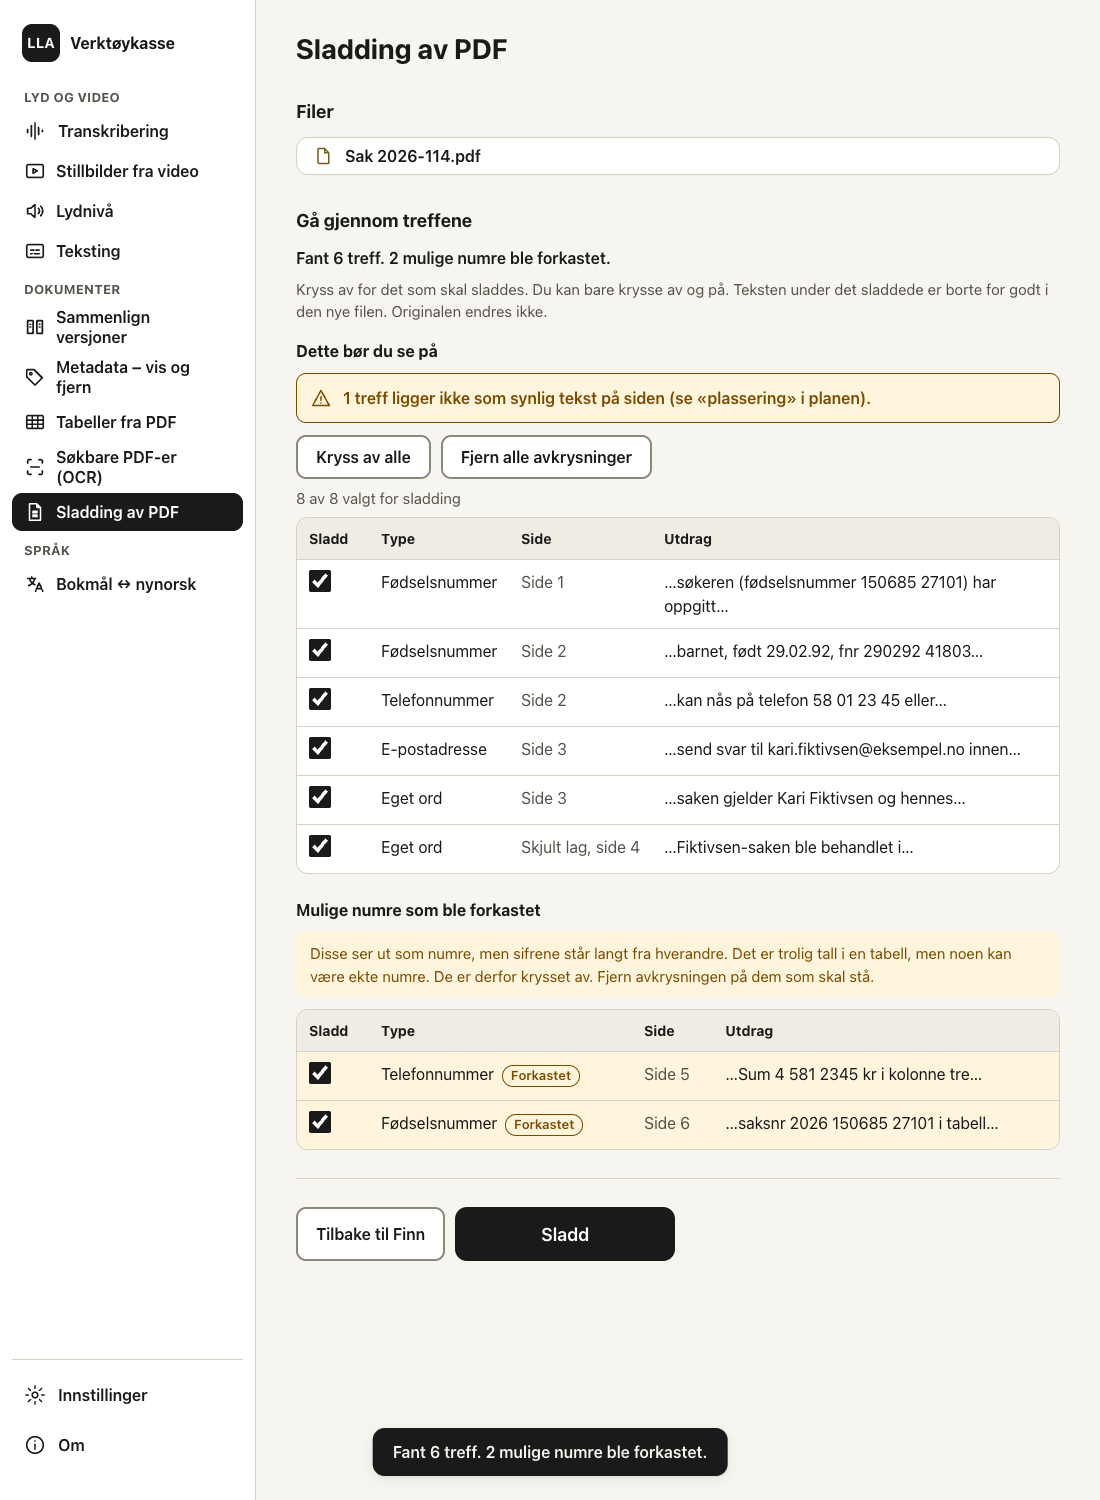
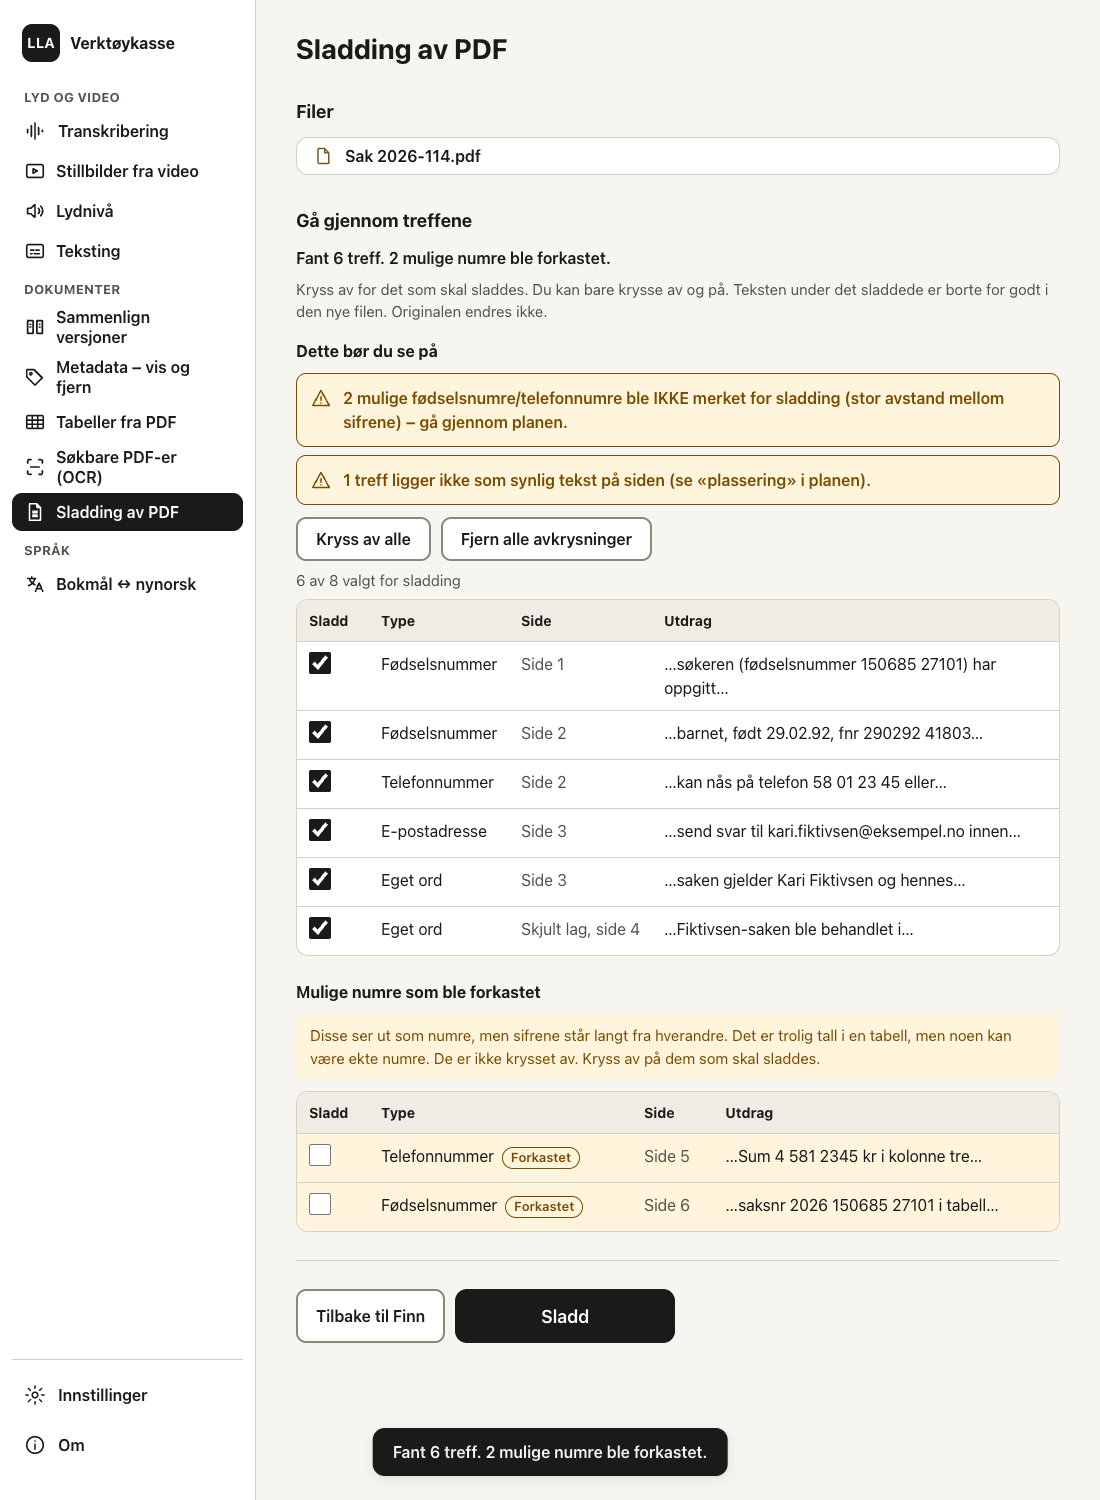
Steg 6.3: forkastede treff uten hake som standard, strammere plan.rs
Claude-Session: https://claude.ai/code/session_014CGeFFCHcrkideQnxsg8jH

Changed region(s): [[0.2473, 0.2453, 0.9891, 0.92]]

diff --git a/src/tools/jv/controller.test.ts b/src/tools/jv/controller.test.ts
@@ -12,7 +12,7 @@ import type { InstalledView, PlanItem } from "./api";
 import { JvController } from "./controller";
 import { catalogOf, entry, FakeJvBackend, fakePlatform, toolView } from "./fakes";
 import { screenMode } from "./view-screen";
-import { hideRejectedWarning, itemType, itemWhere } from "./view-redact";
+import { itemType, itemWhere } from "./view-redact";
 import { visibleWarnings } from "./view-result";
 import { jvErrorText } from "./errors";
 import { t } from "../../i18n/nb";
@@ -420,16 +420,16 @@ describe("sladding i to steg", () => {
     expect(s.redact.items.map((i) => i.id)).toEqual(["t1", "t2", "t3"]);
   });
 
-  it("forkastede kandidater står avkrysset, merket og i egen gruppe", async () => {
+  it("forkastede kandidater står uten hake som standard, merket og i egen gruppe", async () => {
     const { c } = await toReview();
     const items = c.session("redact" as never).redact.items;
     const rejected = items.filter((i) => i.rejected);
     expect(rejected.map((i) => i.id)).toEqual(["t3"]);
-    expect(rejected.every((i) => i.redact)).toBe(true);
+    expect(rejected.every((i) => !i.redact)).toBe(true);
     expect(t.jv.redact.rejectedHint).toContain("kan være ekte numre");
-    // Advarselen som sier det motsatte av avkrysningen, skjules; de andre vises.
+    // Alle advarslene vises, også at forkastede treff ikke er merket.
     const report = c.session("redact" as never).redact.findReport;
-    expect(visibleWarnings(report, hideRejectedWarning)).toEqual(["1 treff ligger ikke som synlig tekst på siden."]);
+    expect(visibleWarnings(report)).toEqual(report!.warnings);
   });
 
   it("brukeren kan bare krysse av og på: «Sladd» lagrer bare id og av/på, og kjører sladd med planen", async () => {
@@ -442,6 +442,14 @@ describe("sladding i to steg", () => {
     expect(JSON.stringify(backend.savedPlans)).not.toMatch(/fødselsnummer|utdrag|excerpt|rektangler|side/);
     expect(backend.callsOf("run")[1]).toEqual(["redact", { command: "sladd", inputs: ["/s/sak.pdf"], out_dir: "/s", options: { plan_file: "/s/sak-treff.json" } }]);
     expect(c.session("redact" as never).run.status).toBe("running");
+  });
+
+  it("lagringen endrer bare sladd: forkastede er false til brukeren krysser dem av", async () => {
+    const { c, backend } = await toReview();
+    expect(c.planEdits("redact" as never)).toEqual({ t1: true, t2: true, t3: false });
+    c.setRedact("redact" as never, "t3", true);
+    await c.redact("redact" as never);
+    expect(backend.savedPlans).toEqual([{ path: "/s/sak-treff.json", redact: { t1: true, t2: true, t3: true } }]);
   });
 
   it("endrer ingenting annet enn avkrysningen i treffene", async () => {

diff --git a/src/tools/jv/view-redact.ts b/src/tools/jv/view-redact.ts
@@ -21,11 +21,6 @@ export function itemType(i: PlanItem): string {
   return X.types[i.type] ?? i.type;
 }
 
-/** Advarselen fra verktøyet om forkastede treff forklares av gruppen under, og sier det motsatte av avkrysningen. */
-export function hideRejectedWarning(w: string): boolean {
-  return /IKKE merket for sladding/.test(w);
-}
-
 export interface RedactView {
   el: HTMLElement;
   update(): void;
@@ -91,7 +86,7 @@ export function createRedactReview(c: JvController, id: JvToolId): RedactView {
     boxes.clear();
     const regular = r.items.filter((i) => !i.rejected);
     const rejected = r.items.filter((i) => i.rejected);
-    const warnings = warningsBlock(visibleWarnings(r.findReport, hideRejectedWarning));
+    const warnings = warningsBlock(visibleWarnings(r.findReport));
     const summary = findSummary(r.items);
     const parts: (HTMLElement | null)[] = [
       h("p", { class: "review-summary", text: summary }),

diff --git a/src/tools/jv/controller.ts b/src/tools/jv/controller.ts
@@ -639,9 +639,8 @@ export class JvController {
     try {
       if (!planPath) throw { code: "report_invalid" };
       const view = await this.backend.readPlan(planPath);
-      // Forkastede kandidater er avkrysset: det er tryggere at brukeren
-      // fjerner en avkrysning enn at et ekte nummer blir stående.
-      const items = view.items.map((i) => (i.rejected ? { ...i, redact: true } : { ...i }));
+      // Avkrysningen følger `sladd` i planen: forkastede kandidater har ingen hake.
+      const items = view.items.map((i) => ({ ...i }));
       s.redact = { step: "review", planPath, items, findReport: report, loading: false, error: null };
       run.status = "done";
       run.progress = 1;

diff --git a/src/i18n/nb.ts b/src/i18n/nb.ts
@@ -792,7 +792,7 @@ const nb = {
       } as Record<string, string>,
       rejectedTitle: "Mulige numre som ble forkastet",
       rejectedHint:
-        "Disse ser ut som numre, men sifrene står langt fra hverandre. Det er trolig tall i en tabell, men noen kan være ekte numre. De er derfor krysset av. Fjern avkrysningen på dem som skal stå.",
+        "Disse ser ut som numre, men sifrene står langt fra hverandre. Det er trolig tall i en tabell, men noen kan være ekte numre. De er ikke krysset av. Kryss av på dem som skal sladdes.",
       rejectedBadge: "Forkastet",
       selected: (n: number, total: number) => `${n} av ${total} valgt for sladding`,
       selectAll: "Kryss av alle",

diff --git a/src-tauri/src/tools/jv/plan.rs b/src-tauri/src/tools/jv/plan.rs
@@ -53,7 +53,7 @@ fn load(path: &str) -> JvResult<Value> {
     if !p.is_absolute() || !name.ends_with("-treff.json") {
         return Err(invalid("plan_path"));
     }
-    let md = fs::metadata(p).map_err(|_| invalid("input_missing"))?;
+    let md = fs::symlink_metadata(p).map_err(|_| invalid("input_missing"))?;
     if !md.is_file() || md.len() > MAX_PLAN_BYTES {
         return Err(invalid("plan_path"));
     }
@@ -111,8 +111,11 @@ pub fn save_plan(path: &str, redact: &BTreeMap<String, bool>) -> JvResult<()> {
     let mut out = serde_json::to_vec_pretty(&v).map_err(|_| JvError::Internal)?;
     out.push(b'\n');
     let tmp = Path::new(path).with_extension("json.tmp");
-    fs::write(&tmp, out)?;
-    fs::rename(&tmp, path)?;
+    let written = fs::write(&tmp, out).and_then(|_| fs::rename(&tmp, path));
+    if let Err(e) = written {
+        let _ = fs::remove_file(&tmp);
+        return Err(e.into());
+    }
     Ok(())
 }
 
@@ -186,6 +189,15 @@ mod tests {
         fs::write(&other, plan().to_string()).unwrap();
         assert_eq!(read_plan(&other).unwrap_err(), invalid("plan_path"));
         assert_eq!(read_plan("relativ-treff.json").unwrap_err(), invalid("plan_path"));
+        #[cfg(unix)]
+        {
+            let real = tmp("real");
+            fs::write(&real, plan().to_string()).unwrap();
+            let link = real.replace("sak-treff.json", "lenke-treff.json");
+            let _ = fs::remove_file(&link);
+            std::os::unix::fs::symlink(&real, &link).unwrap();
+            assert_eq!(read_plan(&link).unwrap_err(), invalid("plan_path"));
+        }
         let notplan = tmp("notplan");
         fs::write(&notplan, "{\"verktoy\":\"annet\",\"treff\":[]}").unwrap();
         assert_eq!(read_plan(&notplan).unwrap_err(), invalid("plan_json"));

diff --git a/docs/sjekkliste-steg-6-3.md b/docs/sjekkliste-steg-6-3.md
@@ -47,15 +47,13 @@ Prøvevisningen startes med `npm run dev` og åpnes i nettleseren, for eksempel
 ## Sladding (redact), to steg
 
 - [ ] «Finn» viser treffene i tabellen med type, side, utdrag og avkrysning.
-- [ ] Forkastede kandidater står i egen gruppe, merket «Forkastet» og avkrysset. **Beslutning:** de er
-      avkrysset som standard (tryggest, slik briefen sier), selv om planfilen fra verktøyet har
-      `sladd: false`. John Inge bekrefter at det er riktig valg.
+- [ ] Forkastede kandidater står i egen gruppe, merket «Forkastet», uten hake som standard (som
+      `sladd: false` i planen). Teksten sier at de kan være ekte numre, og du kan krysse dem av.
 - [ ] Fjern avkrysninger og trykk «Sladd». Åpne planfilen (`…-treff.json`) og sjekk at bare `sladd`
       er endret. Sladdet PDF mangler de sladdede verdiene (søk i Forhåndsvisning).
 - [ ] Planfilen vises ikke som utfil i resultatet. «Tilbake til treffene» gir de samme avkrysningene.
 - [ ] Tom tekstfil og en egen ordliste fra «Velg fil …» gir treff for ordene.
-- [ ] Verktøyets advarsel om at forkastede treff «IKKE er merket» skjules i gjennomgangen, siden den
-      sier det motsatte av avkrysningen. Sjekk at det er rimelig.
+- [ ] Advarselen om at forkastede treff ikke er merket for sladding vises, og stemmer med skjermen.
 
 ## Innstillinger og Om
 
